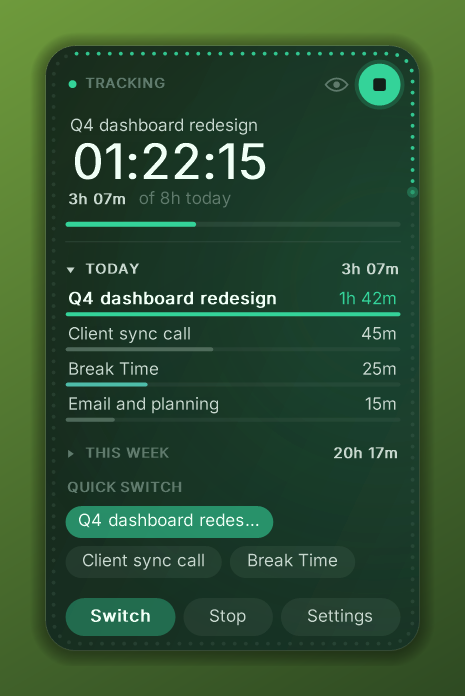
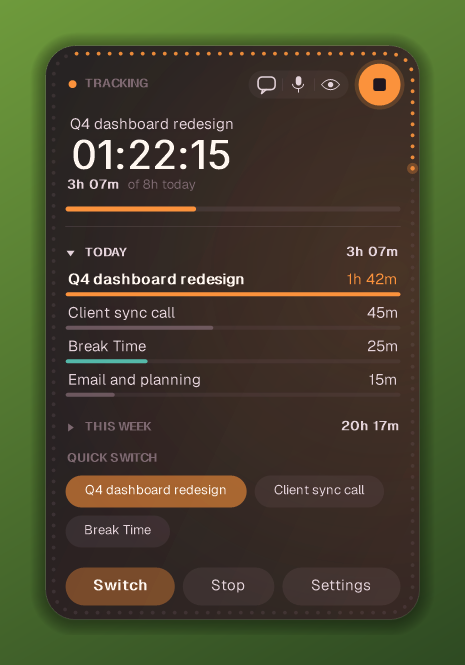
v9.4: comment from the widget; quick controls in one pill
- Speech bubble on the widget while a timer runs: add or change the
  comment on the running entry; it is posted to Everhour (the timer is
  restarted on the same task with the comment, time carries on). Filled
  bubble = the entry has a comment; hover shows it. Right-click
  "Comment..." does the same.
- Comment, mic and privacy eye now sit together in one soft capsule
  inside the content area, clear of the edge lights: top row next to the
  round button on Large/Square, end of the task line on Wide. Hovering
  any of them says what it does on the task line.
- Square: the caps label is dropped (status dot stays) rather than cut
  to "TRACKI...". Previews now cover the pill in every shape, mode and
  three themes.

diff --git a/README.md b/README.md
@@ -56,7 +56,7 @@ If you use Everhour timecards, the widget clocks you in and out: the **Clock in 
 - **Focus sessions** — 25 / 45 / 50 minutes (or your own). The edge lights count down; at the end you get a chime and a break, and the widget can switch to your break task and back for you.
 - **Favourite tasks** — star up to 5 tasks in the task picker. They show as one-click **Quick switch** chips on the widget and in the right-click menu.
 - **Sounds** — soft chimes for start, stop, focus and breaks, and an alert when a break runs over (Settings → Sounds).
-- **Edit note** — right-click → *Edit note...* changes the note on the running entry without stopping your time.
+- **Comment** — the speech bubble on the widget (or right-click → *Comment...*) changes the comment on the running entry without stopping your time.
 - **Add missed time** — right-click → *Add missed time...*: pick a task, a day and how long; it's added to Everhour without starting a timer.
 
 <br clear="right">
@@ -69,6 +69,7 @@ If you use Everhour timecards, the widget clocks you in and out: the **Clock in 
 - **Automatic updates** — checks GitHub every few hours and installs a new version with one click
 - **Global shortcut** — `Ctrl+Alt+E` starts or stops the timer from anywhere
 - **Win+R → `Everhour`** — opens the widget, or brings it to the front if it's already running
+- **Comment from the widget** — the speech bubble next to the mic adds or changes the comment on the running entry, posted to Everhour (filled when there is one; hover to read it)
 - **Voice commands** — click the mic on the widget or press `Ctrl+Alt+V` and say *start break*, *back to work*, *clock in*, *clock out*, *stop timer*, *start timer* or *start &lt;favourite task&gt;*. Uses the speech recogniser built into Windows, offline; the microphone is on only for five seconds after you ask (Settings → Advanced)
 - **Stays on Show desktop** — Win+D or the taskbar corner don't hide it (Settings → Widget)
 - **Real-time timer** — synced to Everhour's clock (network delay is taken out), refreshed every 10 s by default
